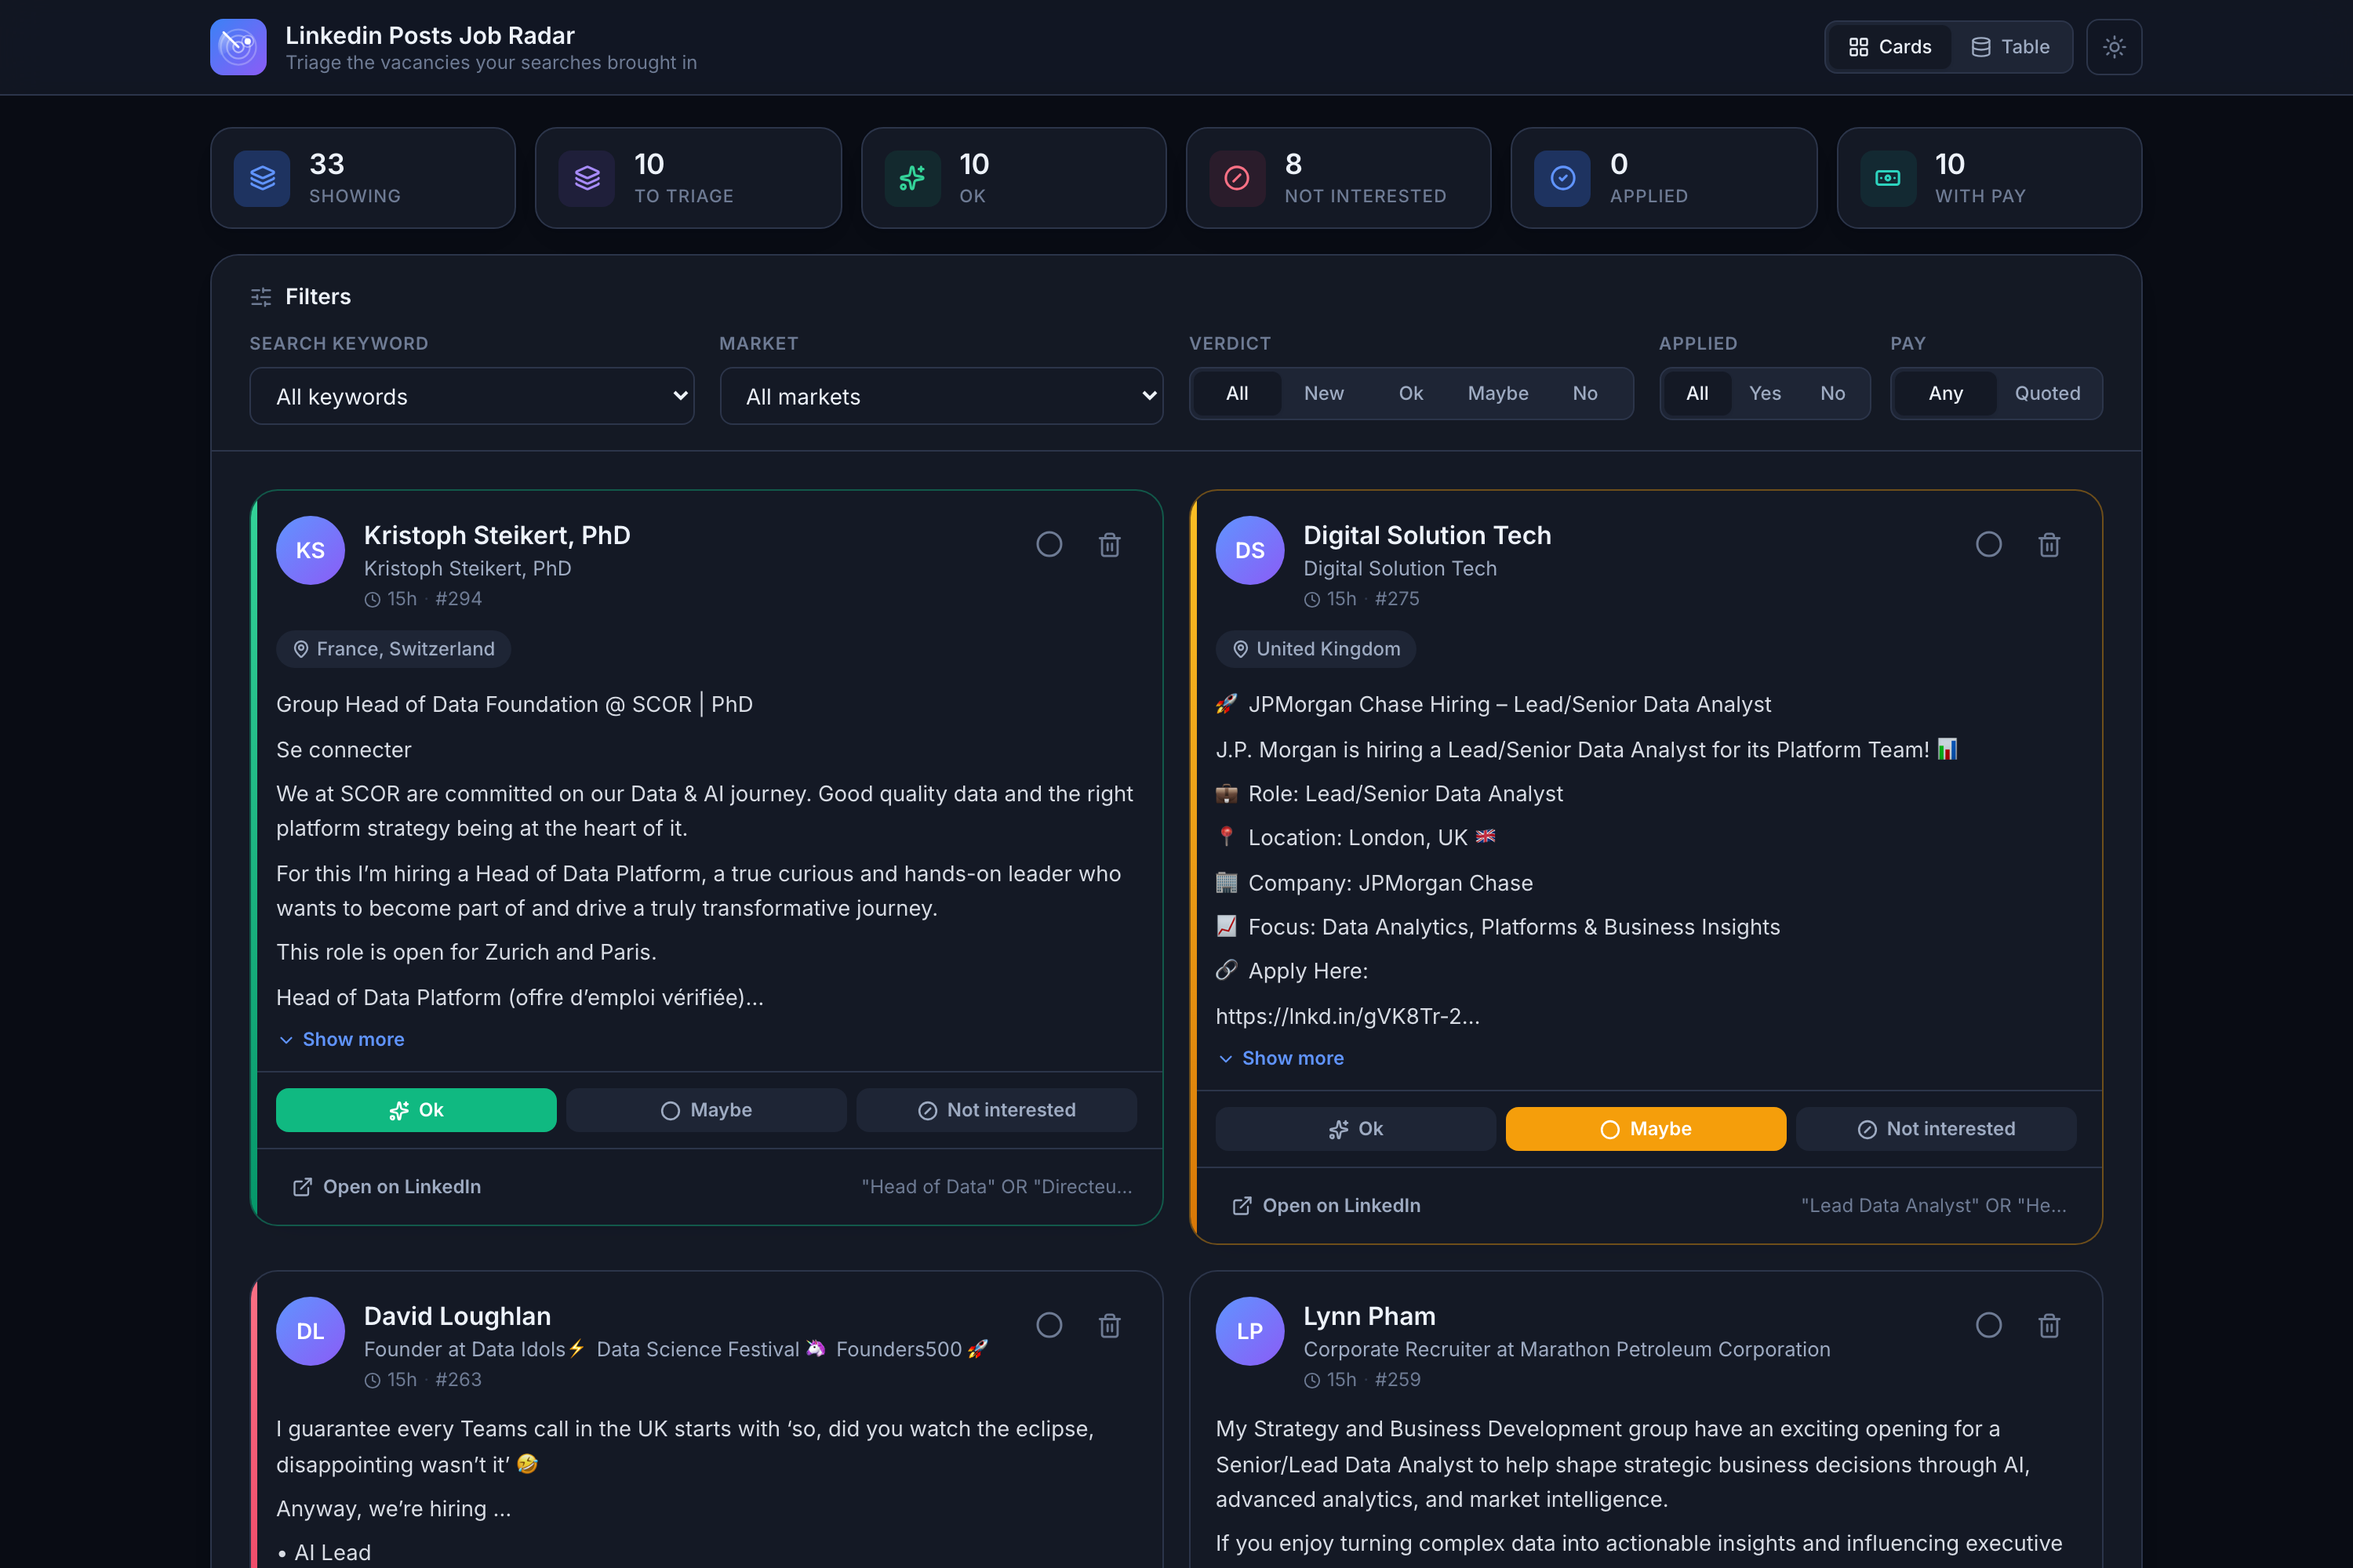
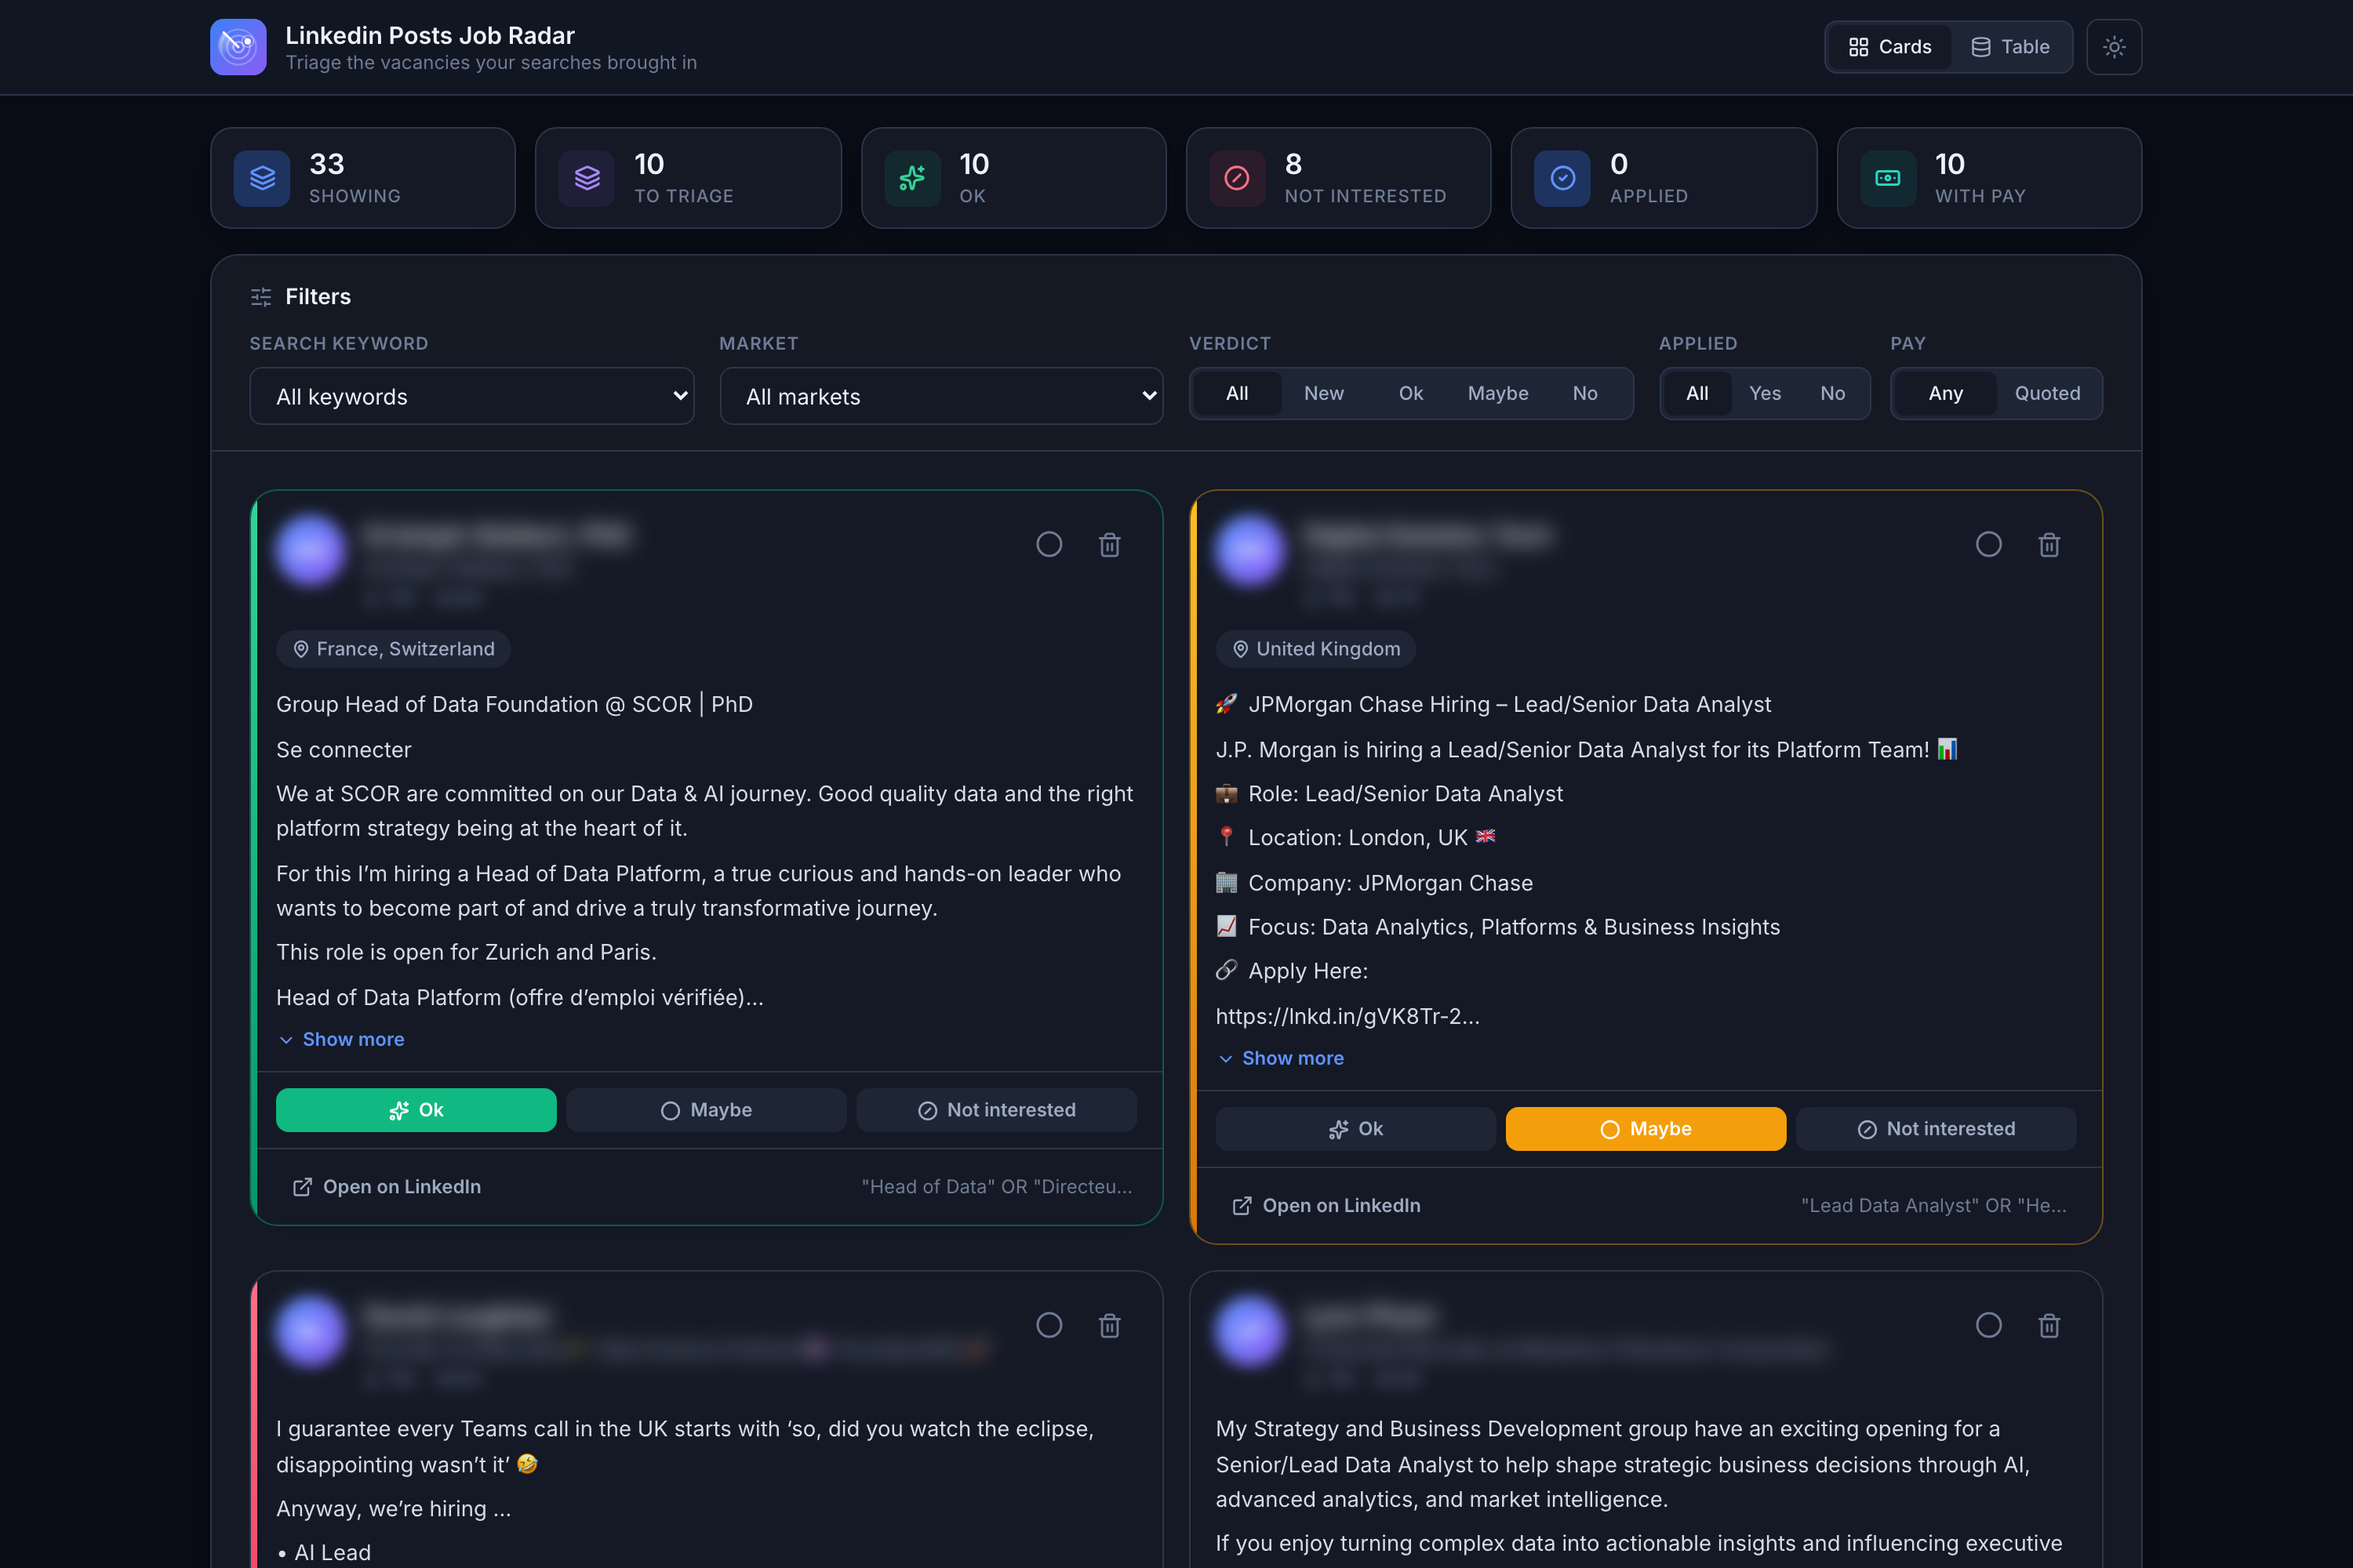
Add a README header; blur identities in the screenshots
Give the README a centred header with the new logo, the tagline and stack
badges, so the page opens with what the project is rather than a wall of
prose. Badge versions match what package.json actually depends on.

The screenshots showed real recruiters' names, headlines and avatars from
harvested posts. Blur those in all three, in both card and table views. Job
titles, companies and locations stay legible, since they are what the
screenshots are meant to demonstrate.

diff --git a/README.md b/README.md
@@ -1,11 +1,29 @@
+<div align="center">
+
+<img src="icon.png" alt="" width="140" />
+
 # Linkedin Posts Job Radar
 
-**Find real job openings on LinkedIn without the noise.**
+**Find real job openings on LinkedIn without the noise**
 
-Ask your AI assistant to search LinkedIn. Linkedin Posts Job Radar scrapes the results,
-throws away everything that isn't an employer hiring in a market you care
-about, and gives you a dashboard to sort what's left into **Ok**, **Maybe** and
-**Not interested**.
+[![MCP Server](https://img.shields.io/badge/MCP-Server-1f6feb)](https://modelcontextprotocol.io)
+[![TypeScript](https://img.shields.io/badge/TypeScript-5.6-3178c6)](https://www.typescriptlang.org/)
+[![Playwright](https://img.shields.io/badge/Playwright-1.55-2ead33)](https://playwright.dev/)
+[![React](https://img.shields.io/badge/React-18.3-58c4dc)](https://react.dev/)
+[![Express](https://img.shields.io/badge/Express-5.1-303030)](https://expressjs.com/)
+[![Vite](https://img.shields.io/badge/Vite-6.0-a855f7)](https://vite.dev/)
+[![Tailwind CSS](https://img.shields.io/badge/Tailwind-3.4-38bdf8)](https://tailwindcss.com/)
+[![SQLite](https://img.shields.io/badge/SQLite-local-003b57)](https://sqlite.org/)
+[![License: ISC](https://img.shields.io/badge/License-ISC-yellow)](LICENSE)
+
+</div>
+
+---
+
+Ask your AI assistant to search LinkedIn. Linkedin Posts Job Radar scrapes the
+results, throws away everything that isn't an employer hiring in a market you
+care about, and gives you a dashboard to sort what's left into **Ok**,
+**Maybe** and **Not interested**.
 
 Everything stays on your machine. No accounts, no servers, no data leaving your
 laptop.
